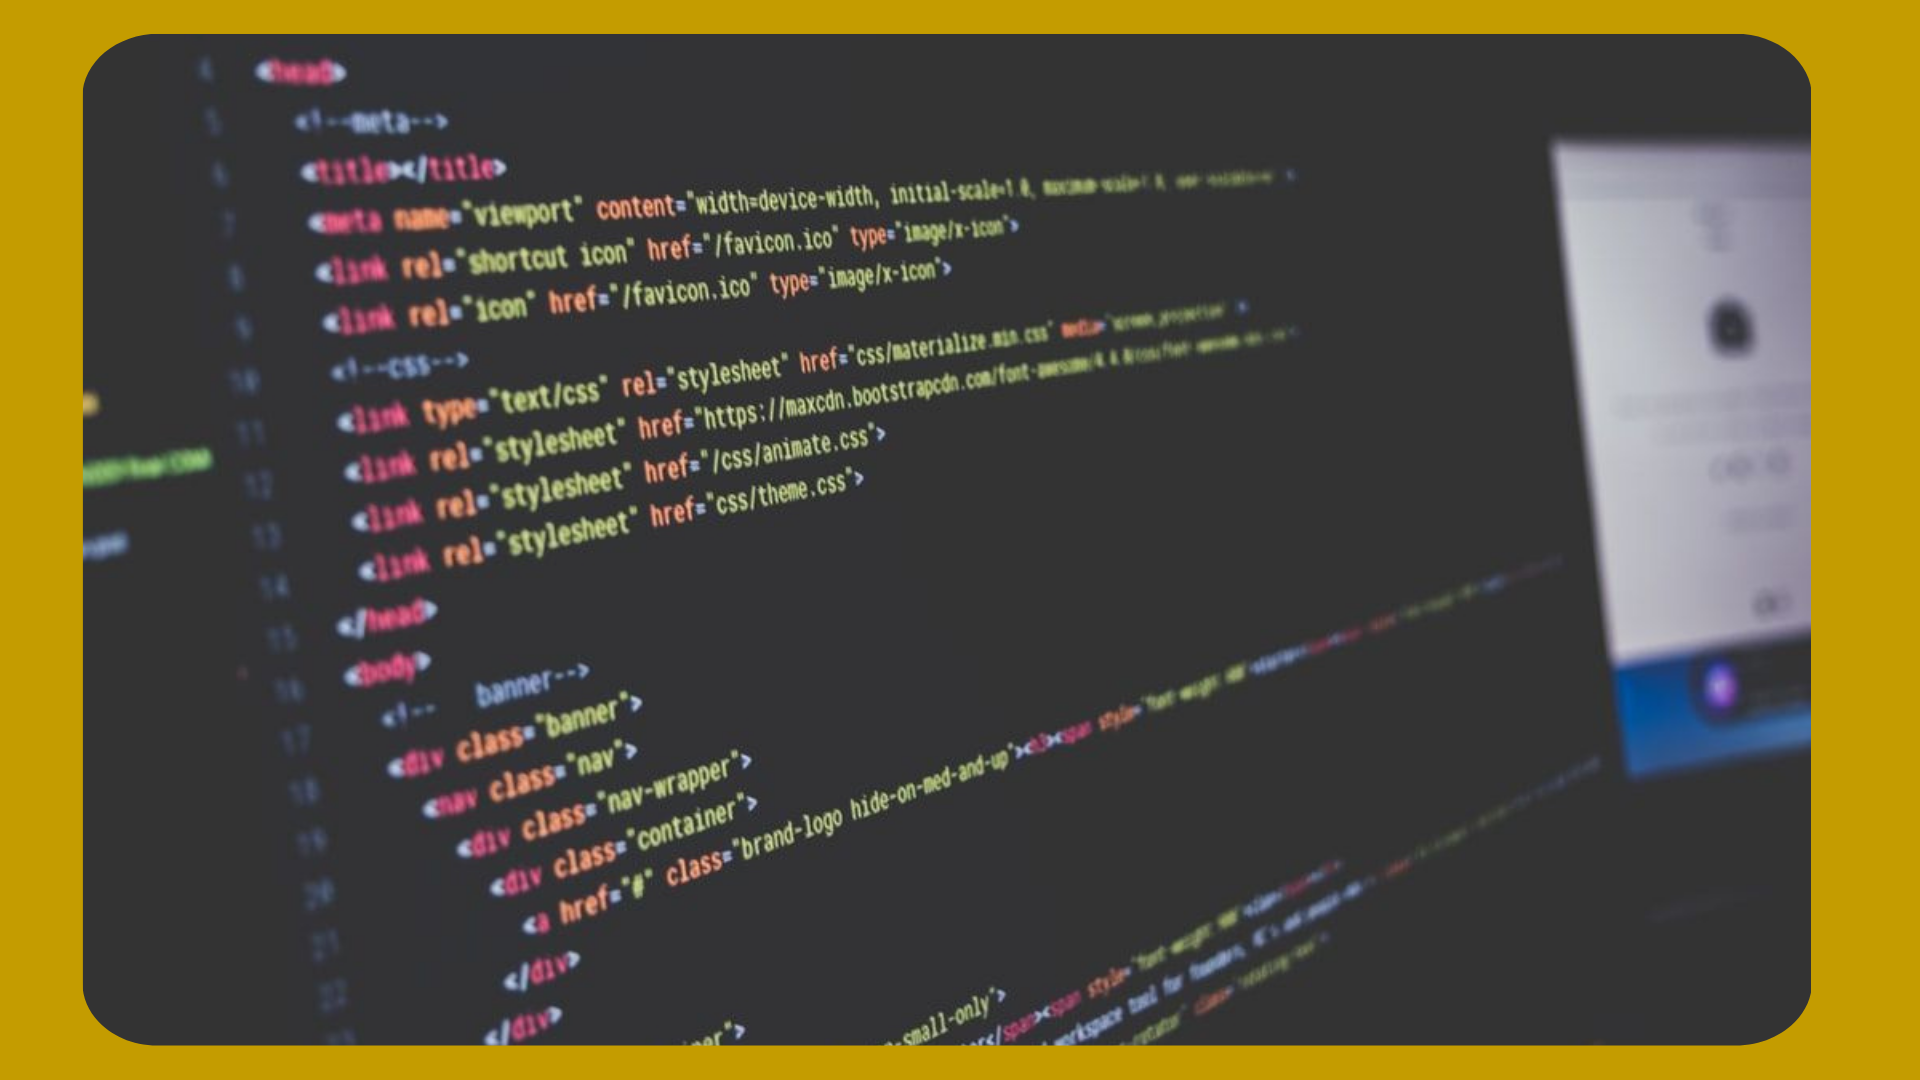
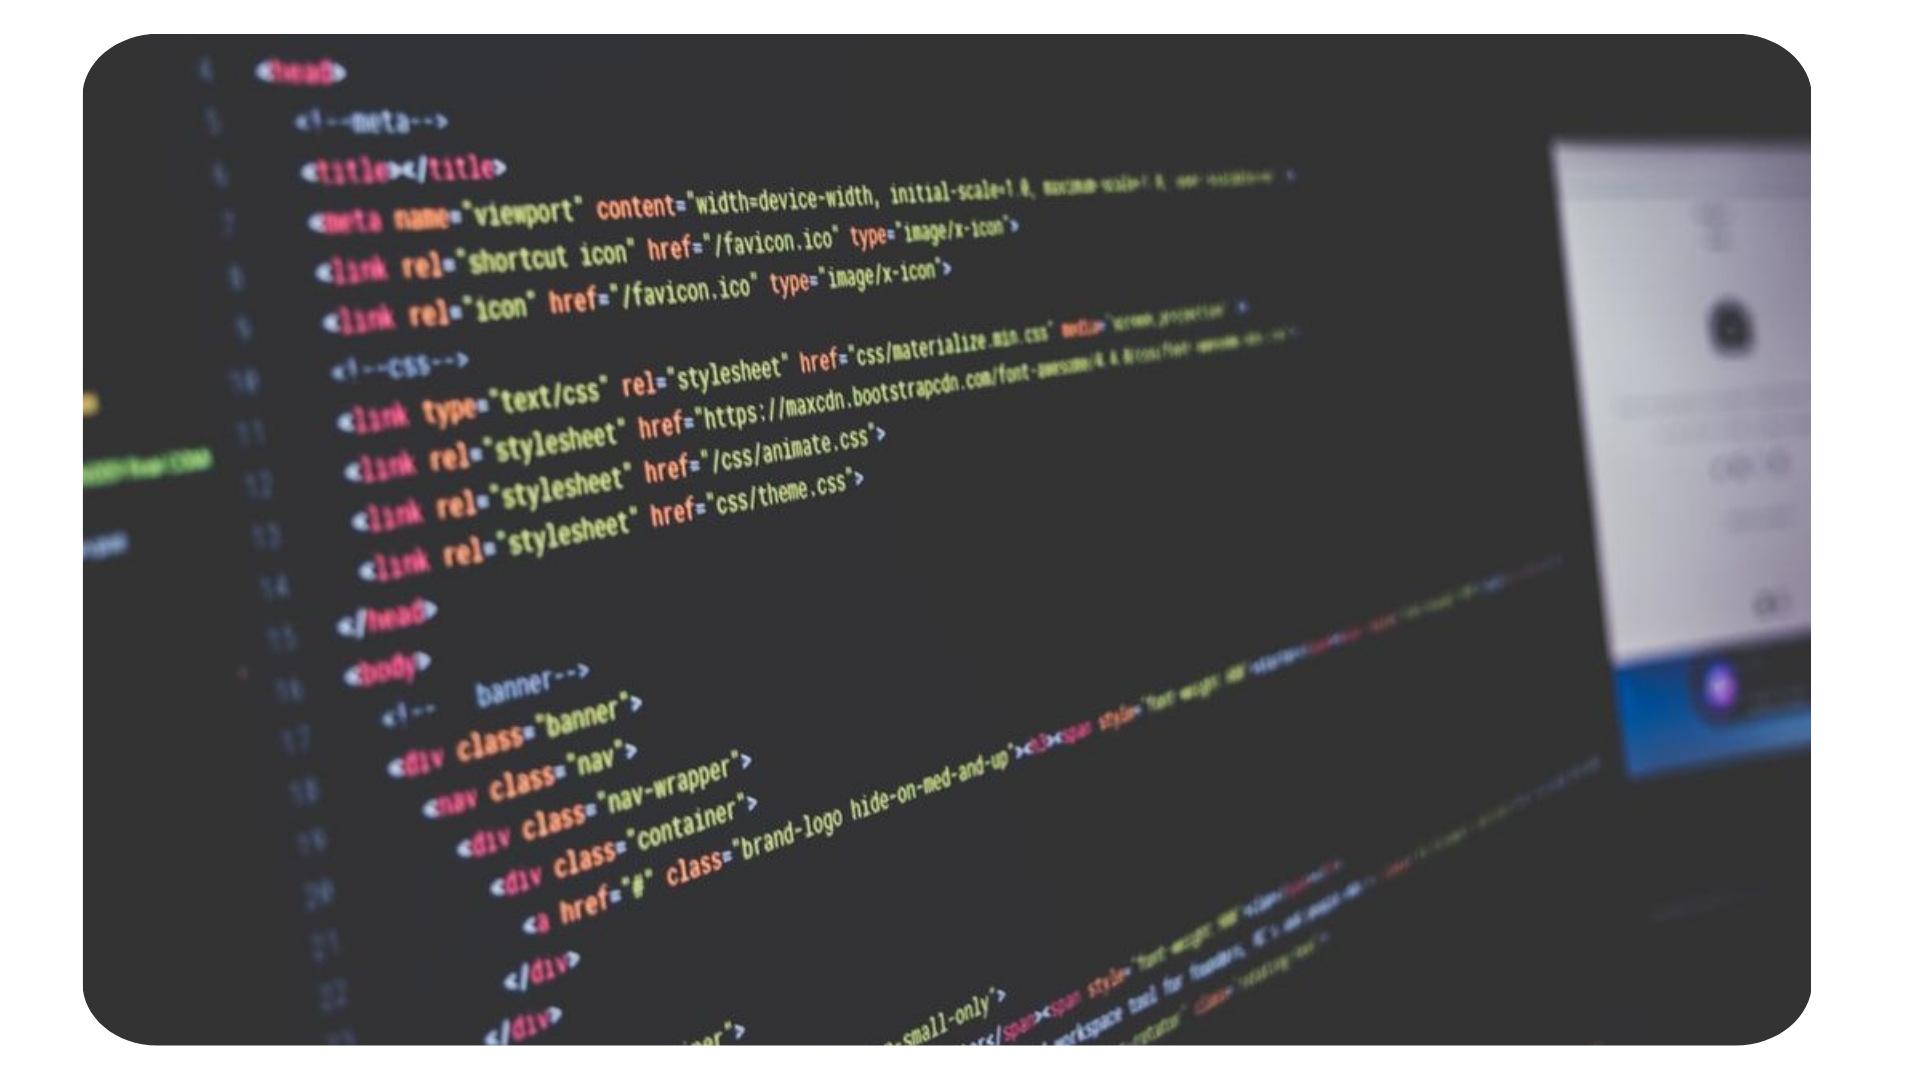
retirando fundo de imagens e modificando scrollbar

Changed region(s): [[0.0, 0.0, 1.0, 1.0]]

diff --git a/docs/index.html b/docs/index.html
@@ -117,26 +117,29 @@
         </div>
     </section>
 
-    <section id="carousel-habilidades" class="bg-warning">
+    <section id="carousel-habilidades" class="bg-warning carousel slide">
         <div id="carouselAutoplaying" class="carousel" data-bs-ride="carousel">
             <div class="carousel-inner">
+
                 <div class="carousel-item active">
-                <img src="./img/ProgramaHtml.png" class="d-block w-100" alt="Imagem de códigos html, meramente ilustrativa.">
+                <img src="./img/ProgramaHtml.png" class="d-block mx-auto w-50" alt="Imagem de códigos html, meramente ilustrativa.">
                 </div>
-                <div class="carousel-item">
-                <img src="./img/Flauta.png" class="d-block w-100" alt="Imagem de flauta transversal em partitura, meramente ilustrativa.">
+
+                <div class="carousel-item active">
+                <img src="./img/Flauta.png" class="d-block mx-auto w-50" alt="Imagem de flauta transversal em partitura, meramente ilustrativa.">
                 </div>
-                <div class="carousel-item">
-                <img src="./img/Desenho.png" class="d-block w-100" alt="Imagem de desenho, meramente ilustrativa.">
+
+                <div class="carousel-item active">
+                <img src="./img/Desenho.png" class="d-block mx-auto w-50" alt="Imagem de desenho, meramente ilustrativa.">
                 </div>
+
             </div>
             <button class="carousel-control-prev" type="button" data-bs-target="#carouselAutoplaying" data-bs-slide="prev">
                 <span class="carousel-control-prev-icon" aria-hidden="true"></span>
-                <span class="visually-hidden">Previous</span>
             </button>
+
             <button class="carousel-control-next" type="button" data-bs-target="#carouselAutoplaying" data-bs-slide="next">
                 <span class="carousel-control-next-icon" aria-hidden="true"></span>
-                <span class="visually-hidden">Next</span>
             </button>
         </div>
     </section>

diff --git a/docs/css/style.css b/docs/css/style.css
@@ -177,3 +177,12 @@ body {
         text-align: center !important;
     }
 }
+
+::-webkit-scrollbar {
+    width: 10px;
+}
+
+::-webkit-scrollbar-thumb {
+    background-color: #ff9100;
+
+}
